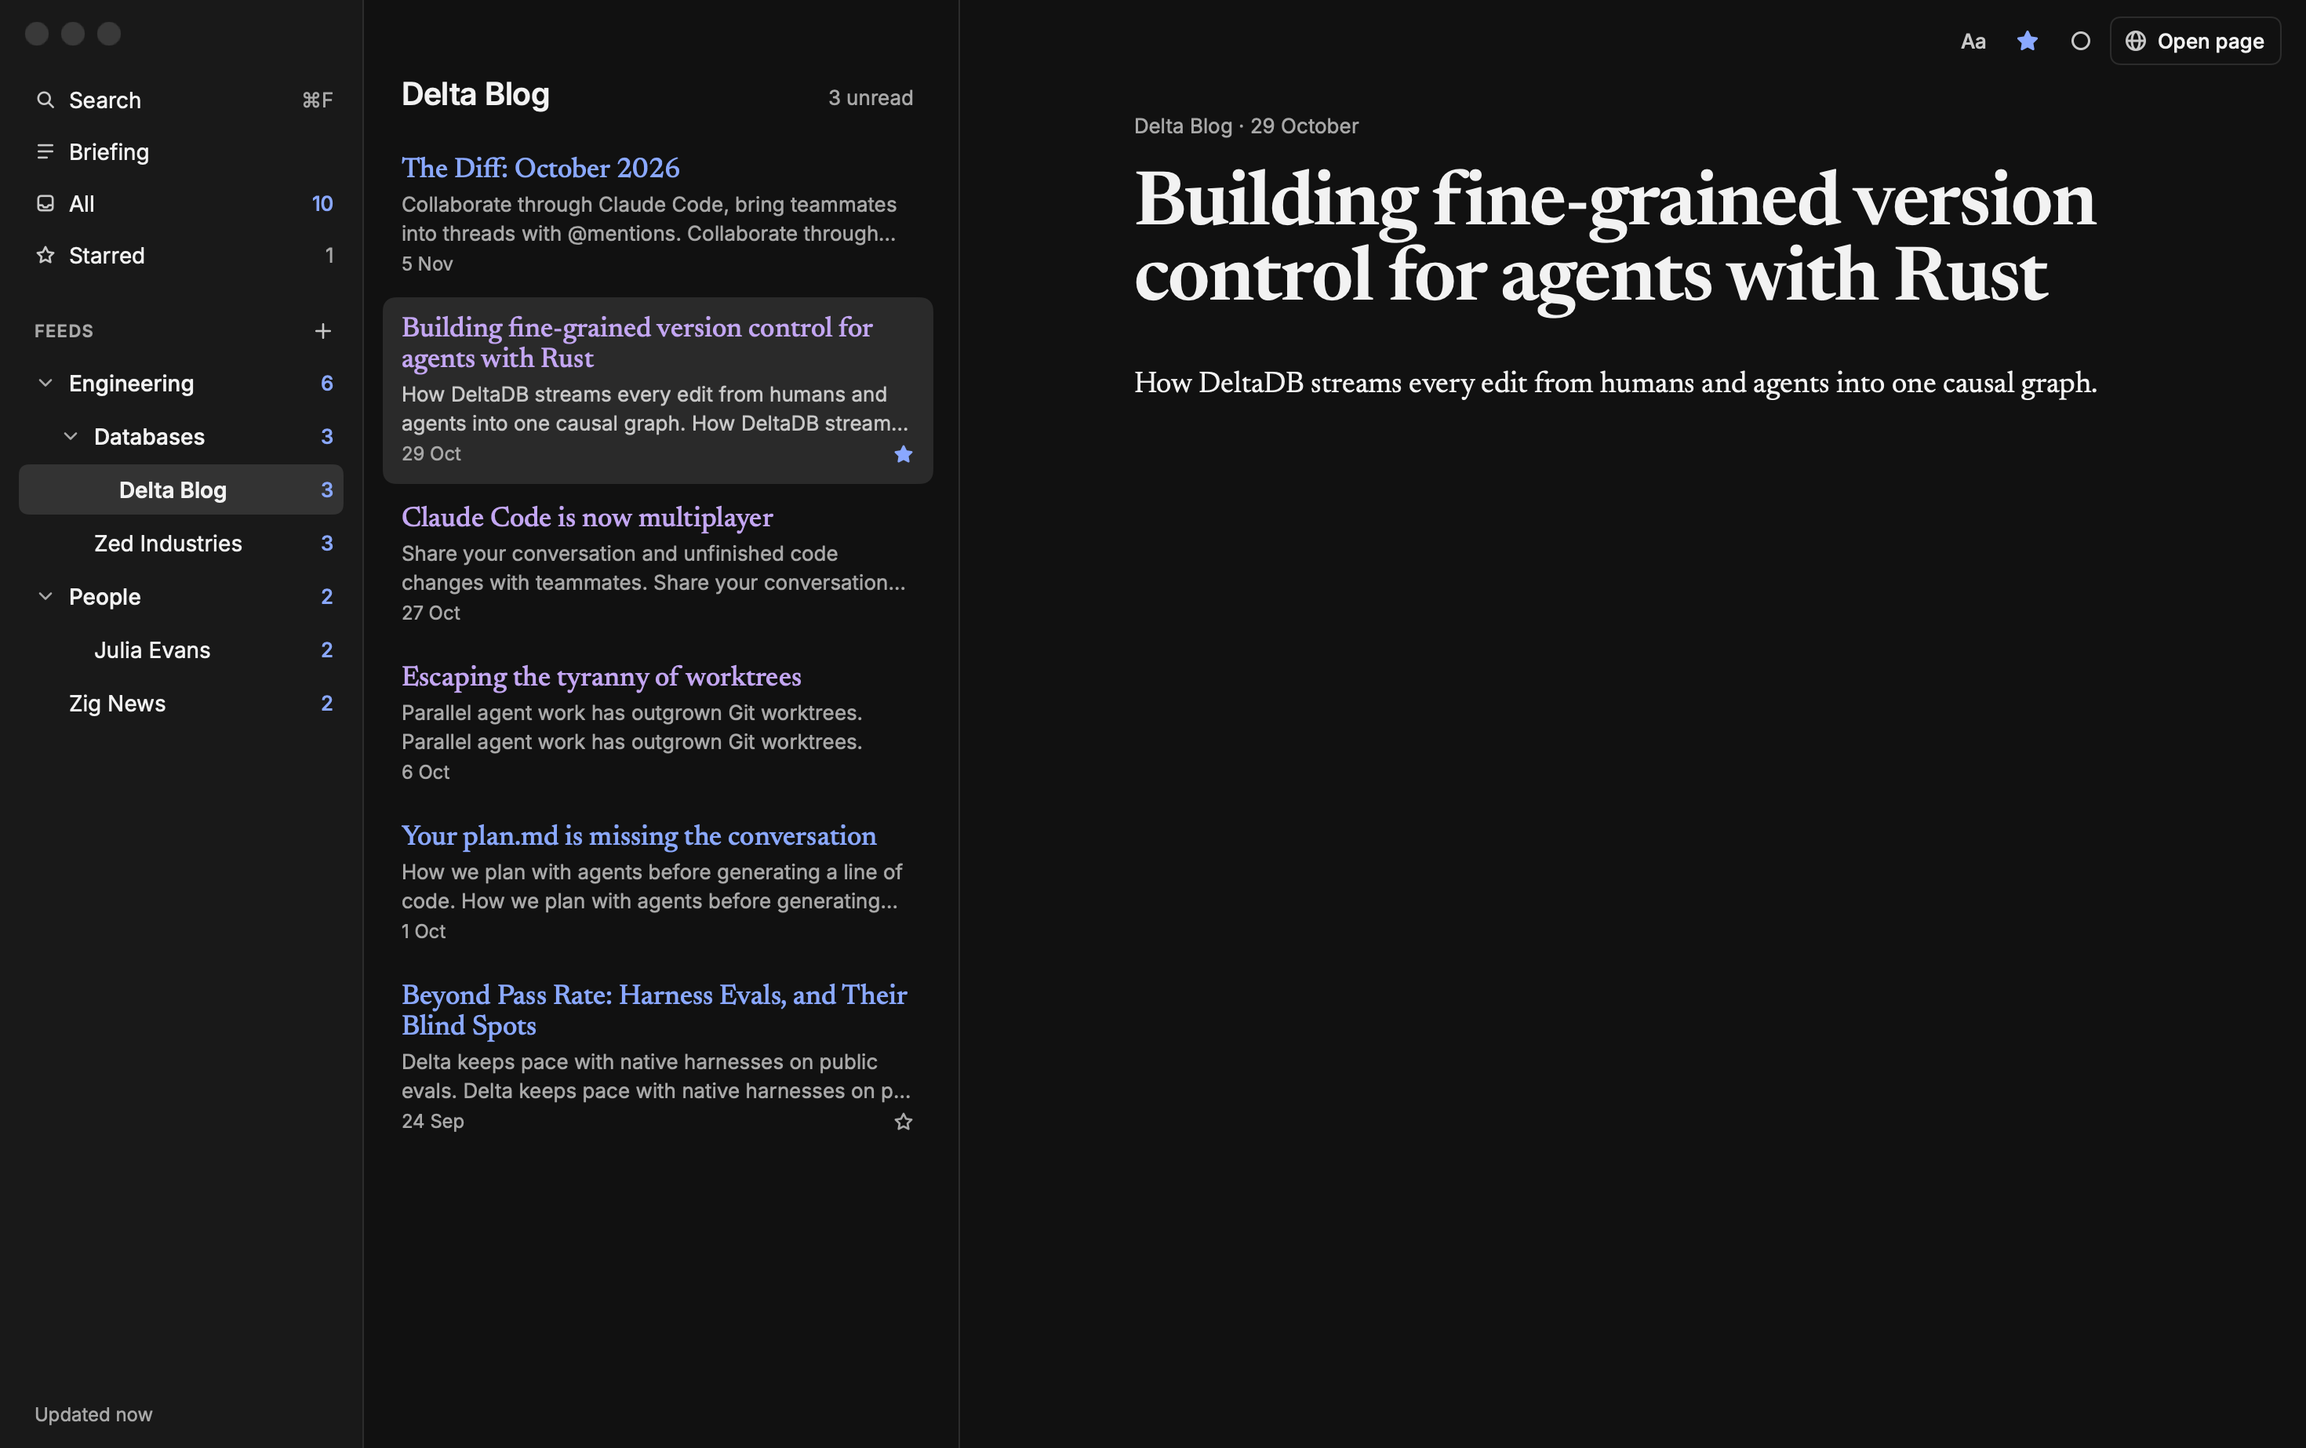
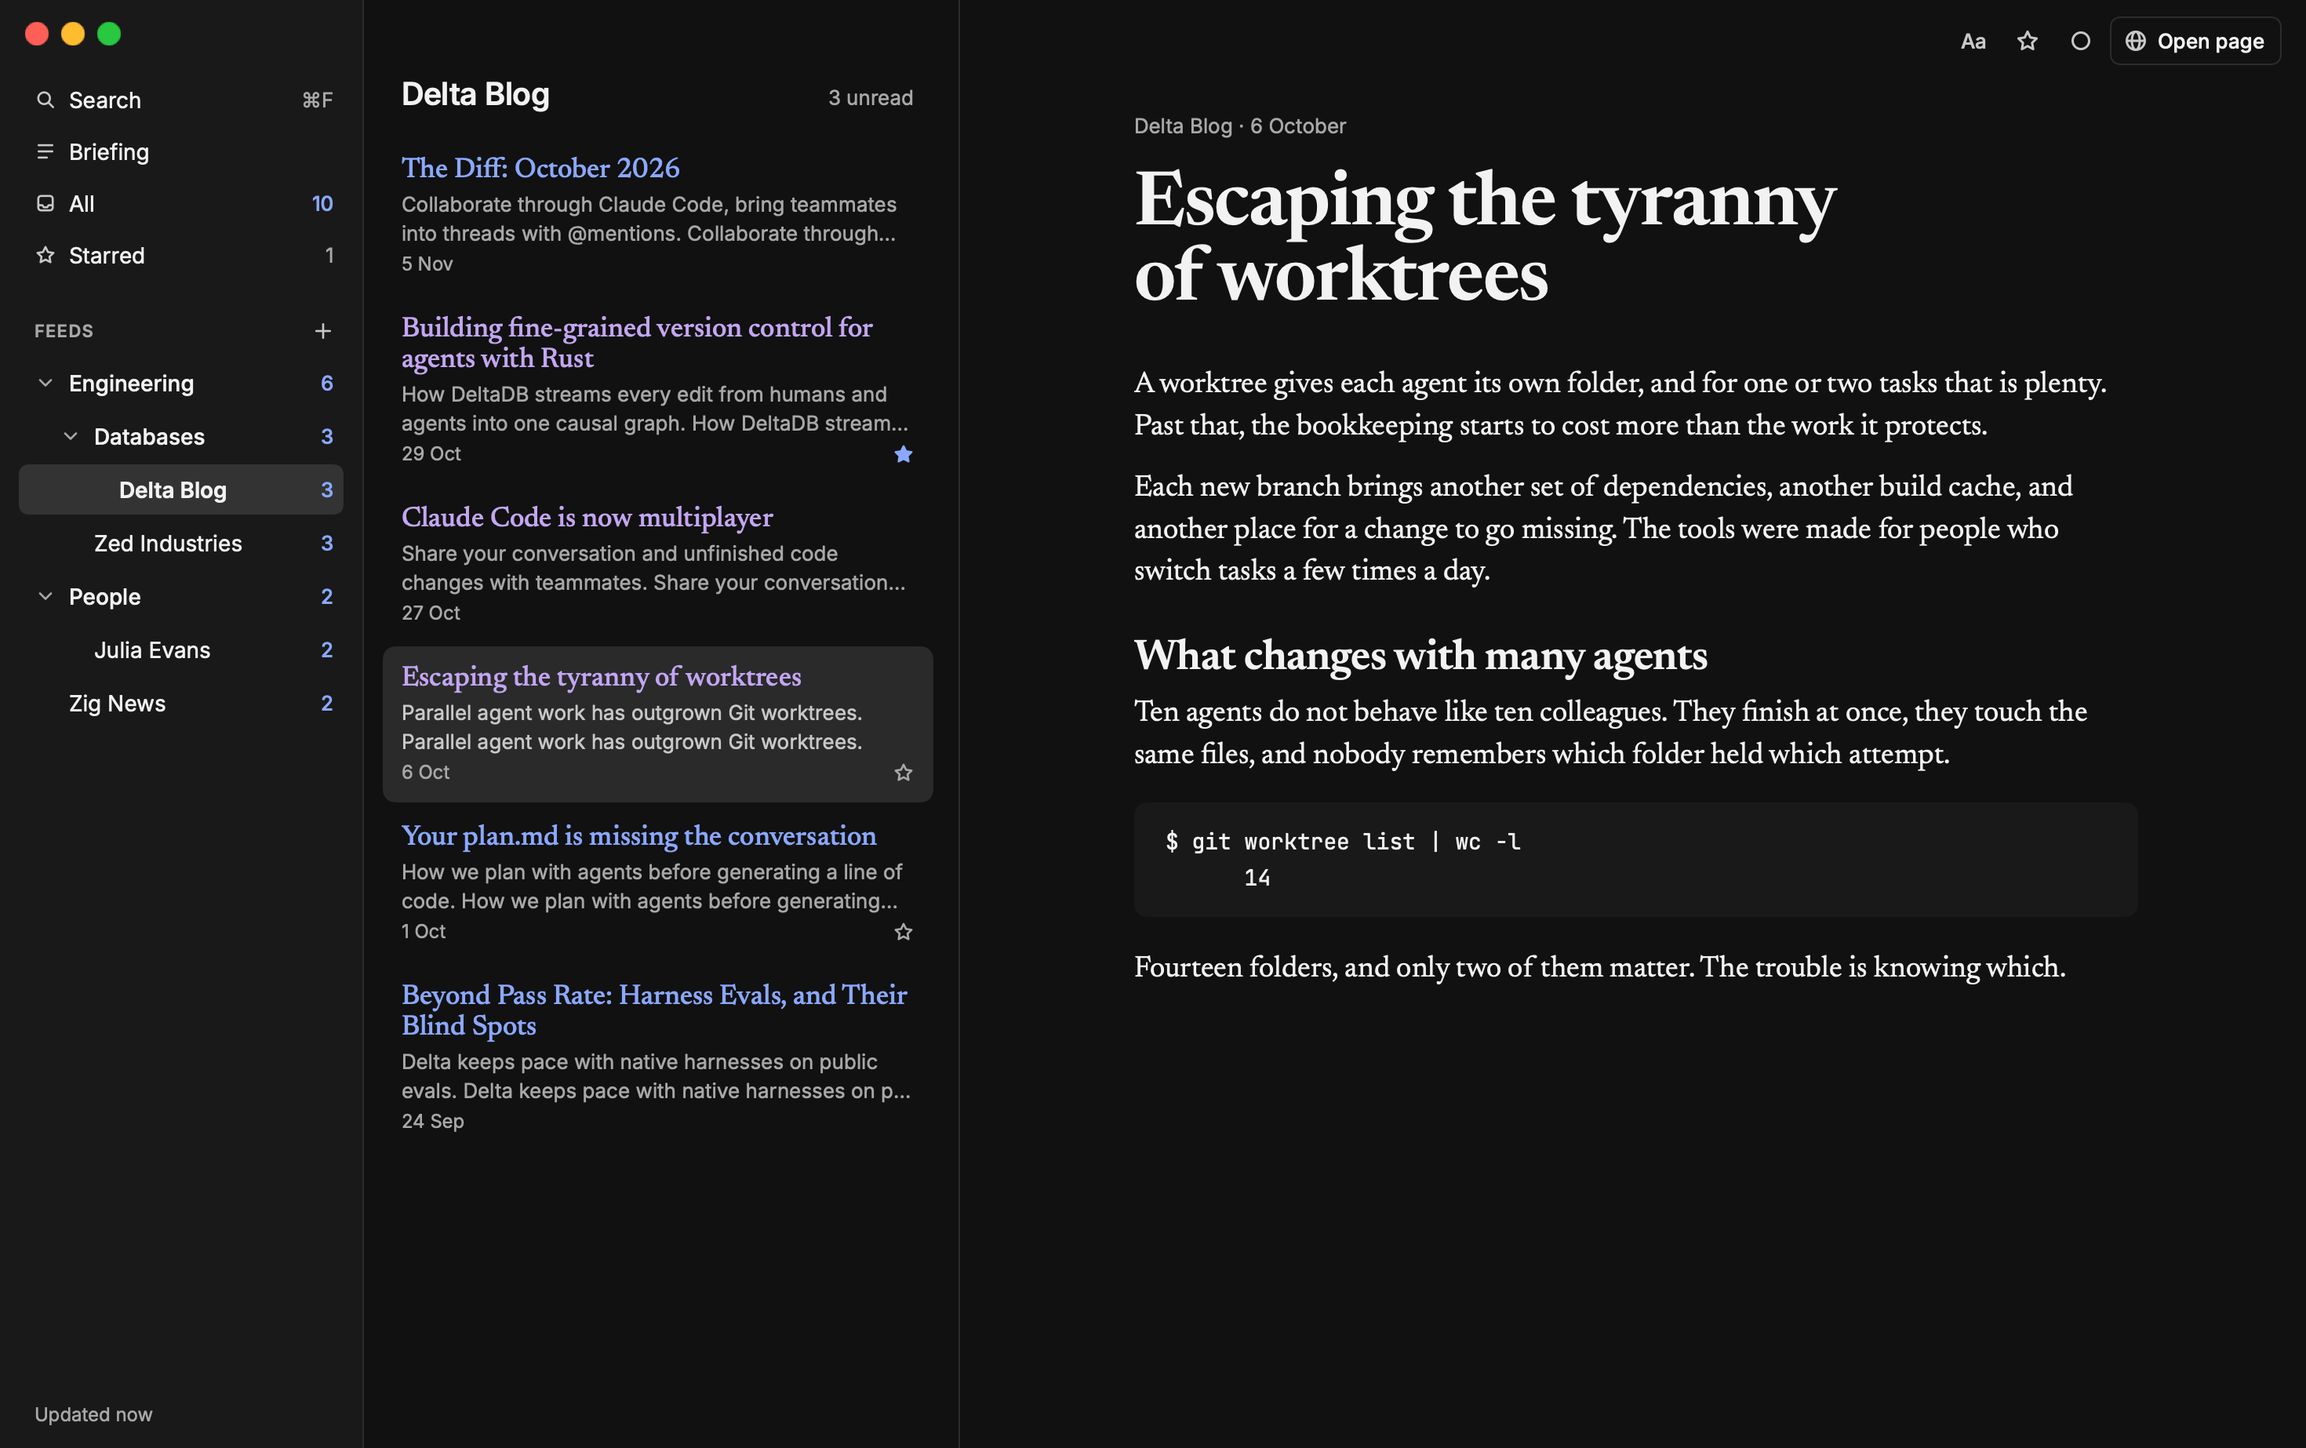
fix(site): match the design more closely
The feed badge is redrawn so the arcs centre on the stone. The ribbon's
Load images switch now reveals a bundled picture that develops in. The
day and night control is a radio group, the masthead line names the
edition, the screenshots cross-fade and show a real article, the install
sheet slides in once, and j and k reach the columns, ads and the Coming
strip. Night colors follow the design.

diff --git a/site/src/styles/global.css b/site/src/styles/global.css
@@ -21,11 +21,11 @@
 }
 
 :root[data-theme="night"] {
-  --linen: #1a1815;
-  --paper: #24211d;
-  --ink: #f0eadc;
+  --linen: #1c1915;
+  --paper: #25221d;
+  --ink: #f3ede0;
   --ink-soft: #cfc7b6;
-  --rule: #5d5548;
+  --rule: #6a6152;
   --orange-text: #ff8f4d;
   --code-bg: #12100e;
   --code-ink: #f3ead8;
@@ -105,12 +105,14 @@ a:focus-visible, button:focus-visible, [tabindex]:focus-visible {
 .badge svg { width: 62%; height: 62%; }
 :root[data-theme="night"] .badge { box-shadow: inset 0 1px 0 rgb(255 255 255 / 0.4), 0 0 18px rgb(238 110 31 / 0.55), 0 2px 4px var(--shadow); }
 
-.edition-toggle {
-  display: inline-flex; border: 1px solid var(--ink); border-radius: 999px; padding: 2px;
-  background: var(--paper); font: 700 10px/1 var(--sans); letter-spacing: 0.14em; cursor: pointer;
-}
-.edition-toggle span { padding: 5px 9px; border-radius: 999px; color: var(--ink-soft); transition: background 0.2s, color 0.2s; }
-:root:not([data-theme="night"]) .edition-toggle .d, :root[data-theme="night"] .edition-toggle .n { background: var(--ink); color: var(--paper); }
+.edition-toggle { display: inline-flex; border: 1px solid var(--ink); border-radius: 999px; padding: 2px; background: var(--paper); margin: 0; min-width: 0; }
+.edition-toggle legend { position: absolute; width: 1px; height: 1px; overflow: hidden; clip: rect(0 0 0 0); }
+.edition-toggle label { position: relative; cursor: pointer; }
+.edition-toggle input { position: absolute; inset: 0; opacity: 0; margin: 0; cursor: pointer; }
+.edition-toggle span { display: block; padding: 5px 9px; border-radius: 999px; color: var(--ink-soft); font: 700 10px/1 var(--sans); letter-spacing: 0.14em; transition: background 0.2s, color 0.2s; }
+.edition-toggle input:checked + span { background: var(--ink); color: var(--paper); }
+.edition-toggle input:focus-visible + span { outline: 2px solid var(--orange); outline-offset: 2px; }
+.nojs .edition-toggle { display: none; }
 
 /* sticky slim masthead */
 .slim {
@@ -162,10 +164,9 @@ a:focus-visible, button:focus-visible, [tabindex]:focus-visible {
 .shot { position: relative; }
 .shot figure { margin: 0; }
 .shot img { display: block; width: 100%; height: auto; }
-.shot .img-night { display: none; }
-:root[data-theme="night"] .shot .img-day { display: none; }
-:root[data-theme="night"] .shot .img-night { display: block; }
-.shot .frame { border-radius: 10px; overflow: hidden; border: 1px solid var(--rule); box-shadow: 0 18px 40px var(--shadow); }
+.shot .frame { position: relative; border-radius: 10px; overflow: hidden; border: 1px solid var(--rule); box-shadow: 0 18px 40px var(--shadow); }
+.shot .img-night { position: absolute; inset: 0; opacity: 0; transition: opacity 0.3s; }
+:root[data-theme="night"] .shot .img-night { opacity: 1; }
 .shot figcaption { font: italic 13px/1.4 var(--serif); color: var(--ink-soft); margin-top: 10px; }
 
 .ribbon-wrap { position: absolute; left: -18px; bottom: 54px; z-index: 5; }
@@ -178,6 +179,7 @@ a:focus-visible, button:focus-visible, [tabindex]:focus-visible {
 .ribbon::after { content: ""; position: absolute; left: 0; bottom: -9px; border: 9px solid transparent; border-top-color: #a8420f; border-left-color: #a8420f; border-bottom: 0; border-right: 0; }
 .ribbon .chev { transition: transform 0.32s cubic-bezier(0.2, 0.8, 0.2, 1); }
 .ribbon[aria-expanded="true"] .chev { transform: rotate(180deg); }
+:root[data-theme="night"] .btn:not(.alt) { box-shadow: inset 0 1px 0 rgb(255 255 255 / 0.5), 0 0 22px rgb(238 110 31 / 0.5), 0 3px 6px var(--shadow); }
 :root[data-theme="night"] .ribbon { box-shadow: 0 0 18px rgb(238 110 31 / 0.5), 0 3px 6px var(--shadow); }
 .inset {
   position: absolute; left: 0; bottom: 100%; width: min(440px, 80vw);
@@ -187,11 +189,15 @@ a:focus-visible, button:focus-visible, [tabindex]:focus-visible {
 }
 .inset.open { display: block; clip-path: inset(0); }
 .inset .ph {
-  position: relative; height: 140px; border: 1px dashed var(--rule); display: grid; place-items: center; text-align: center;
+  position: relative; height: 140px; border: 1px dashed var(--rule); overflow: hidden;
   background: repeating-linear-gradient(135deg, transparent 0 8px, rgb(128 112 80 / 0.12) 8px 10px);
-  font-size: 14px; padding: 12px; transition: background 0.5s, color 0.5s;
+  transition: background 0.5s, border-color 0.5s;
 }
-.inset .ph.loaded { background: linear-gradient(#f6c08a, #e98a45 55%, #7a4a2c 55%); color: transparent; border-style: solid; }
+.inset .ph .blocked { position: absolute; inset: 0; display: grid; place-items: center; text-align: center; font-size: 14px; padding: 12px; transition: opacity 0.3s; }
+.inset .ph .photo { position: absolute; inset: 0; width: 100%; height: 100%; object-fit: cover; opacity: 0; filter: sepia(1) blur(6px); transition: opacity 0.5s ease-out, filter 0.5s ease-out; }
+.inset .ph.loaded { border-style: solid; }
+.inset .ph.loaded .blocked { opacity: 0; }
+.inset .ph.loaded .photo { opacity: 1; filter: none; }
 .switch-row { display: flex; justify-content: space-between; align-items: center; gap: 14px; padding: 14px 0 10px; border-bottom: 1px solid var(--rule); }
 .switch-row b { display: block; font-size: 15px; }
 .switch-row span.s { font-size: 13px; color: var(--ink-soft); }
@@ -200,7 +206,11 @@ a:focus-visible, button:focus-visible, [tabindex]:focus-visible {
 .switch:checked { background: var(--orange); }
 .switch:checked::after { transform: translateX(20px); }
 .inset p.what { font: 16px/1.5 var(--serif); margin: 12px 0 0; }
-@media (prefers-reduced-motion: reduce) { .inset, .ribbon .chev, .switch::after { transition: none; } }
+@media (prefers-reduced-motion: reduce) {
+  .inset { clip-path: none; opacity: 0; transition: opacity 0.12s; }
+  .inset.open { opacity: 1; }
+  .ribbon .chev, .switch::after, .inset .ph .photo { transition: none; filter: none; }
+}
 
 /* ---------- edition strip ---------- */
 .strip { display: grid; grid-template-columns: 150px repeat(4, 1fr); border-top: 3px double var(--ink); border-bottom: 1px solid var(--ink); padding: 22px 0; }
@@ -211,7 +221,9 @@ a:focus-visible, button:focus-visible, [tabindex]:focus-visible {
 .strip h3 { font: 700 22px/1.2 var(--serif); margin: 0 0 6px; position: relative; display: inline-block; }
 .strip p { margin: 0 0 8px; font-size: 15px; color: var(--ink-soft); }
 .strip .cont { font: italic 14px/1 var(--serif); color: var(--orange-text); }
-.story-focus { outline: 2px solid var(--orange); outline-offset: 6px; border-radius: 3px; background: rgb(238 110 31 / 0.08); }
+.story-focus { outline: none; box-shadow: 0 0 0 2px var(--paper), 0 0 0 4px var(--orange); border-radius: 3px; background: rgb(238 110 31 / 0.08); animation: ringin 0.14s ease-out; }
+@keyframes ringin { from { box-shadow: 0 0 0 2px var(--paper), 0 0 0 4px transparent; } }
+@media (prefers-reduced-motion: reduce) { .story-focus { animation: none; } }
 .scribble { position: absolute; left: 0; right: 0; bottom: -7px; height: 8px; width: 100%; overflow: visible; pointer-events: none; }
 .scribble path { stroke: var(--orange); stroke-width: 2.4; fill: none; stroke-linecap: round; stroke-dasharray: 1; stroke-dashoffset: 1; transition: stroke-dashoffset 0.2s ease-in; }
 .story:hover .scribble path, .story.story-focus .scribble path, .story:focus-visible .scribble path { stroke-dashoffset: 0; transition: stroke-dashoffset 0.36s ease-out; }
@@ -225,6 +237,7 @@ section.block { padding: 72px 0 8px; scroll-margin-top: 64px; }
 .head p.aside { font: italic 17px/1.4 var(--serif); color: var(--ink-soft); max-width: 22em; text-align: right; margin: 0; }
 .cols { display: grid; grid-template-columns: repeat(3, 1fr); border-top: 1px solid var(--ink); }
 .col { padding: 26px 28px 26px 0; }
+.col:focus-visible, .classifieds > div:focus-visible, .coming:focus-visible { outline: none; }
 .col + .col { padding-left: 28px; border-left: 1px solid var(--rule); }
 .col h3 { font: 700 30px/1.15 var(--serif); margin: 8px 0 14px; }
 .col p { margin: 0 0 14px; font-size: 16.5px; }

diff --git a/site/src/scripts/site.ts b/site/src/scripts/site.ts
@@ -12,9 +12,13 @@ const today = `${parts.weekday}, ${parts.day} ${parts.month} ${parts.year}`;
 document.querySelectorAll("[data-date]").forEach((el) => (el.textContent = today));
 
 // ----- day and night edition
-const toggle = document.getElementById("edition");
+const radios = Array.from(document.querySelectorAll<HTMLInputElement>('#edition input[name="edition"]'));
+const edName = document.getElementById("edition-name");
 const night = () => root.dataset.theme === "night";
-const syncToggle = () => toggle?.setAttribute("aria-pressed", String(night()));
+const syncToggle = () => {
+  radios.forEach((r) => (r.checked = r.value === (night() ? "night" : "day")));
+  if (edName) edName.textContent = night() ? "Night" : "Local";
+};
 function setEdition(next: "day" | "night") {
   if (next === "night") root.dataset.theme = "night"; else delete root.dataset.theme;
   try { localStorage.setItem("weir-edition", next); } catch { /* private mode */ }
@@ -22,7 +26,7 @@ function setEdition(next: "day" | "night") {
   say(next === "night" ? "Night edition" : "Day edition");
 }
 syncToggle();
-toggle?.addEventListener("click", () => setEdition(night() ? "day" : "night"));
+radios.forEach((r) => r.addEventListener("change", () => r.checked && setEdition(r.value as "day" | "night")));
 matchMedia("(prefers-color-scheme: dark)").addEventListener("change", (e) => {
   let saved: string | null = null;
   try { saved = localStorage.getItem("weir-edition"); } catch { /* ignore */ }
@@ -47,13 +51,14 @@ const inset = document.getElementById("inset");
 const imgSwitch = document.getElementById("img-switch") as HTMLInputElement | null;
 const ph = document.getElementById("ph");
 const what = document.getElementById("what");
-function setRibbon(open: boolean) {
+function setRibbon(open: boolean, focus = false) {
   if (!ribbon || !inset) return;
   ribbon.setAttribute("aria-expanded", String(open));
   inset.classList.toggle("open", open);
-  if (open) inset.removeAttribute("hidden");
+  if (open) { inset.removeAttribute("hidden"); if (focus) imgSwitch?.focus(); }
+  else if (focus) ribbon.focus();
 }
-ribbon?.addEventListener("click", () => setRibbon(ribbon.getAttribute("aria-expanded") !== "true"));
+ribbon?.addEventListener("click", () => setRibbon(ribbon.getAttribute("aria-expanded") !== "true", true));
 imgSwitch?.addEventListener("change", () => {
   const on = imgSwitch.checked;
   ph?.classList.toggle("loaded", on);
@@ -78,24 +83,33 @@ async function copyCommands() {
     const range = document.createRange();
     range.selectNodeContents(commands);
     const sel = getSelection(); sel?.removeAllRanges(); sel?.addRange(range);
+    if (btn) { btn.textContent = "Press ⌘C"; setTimeout(() => (btn.textContent = "Copy"), 2500); }
     say("Select and copy the commands");
   }
 }
 document.querySelectorAll("[data-copy]").forEach((b) => b.addEventListener("click", copyCommands));
 
-// ----- get started slides the install section into view
+// ----- the install sheet slides in once, when it arrives or is scrolled to
+const installSection = document.getElementById("install");
+const reduce = matchMedia("(prefers-reduced-motion: reduce)").matches;
+let slid = false;
+function slideInstall() {
+  const sheet = installSection?.querySelector<HTMLElement>(".classifieds");
+  if (slid || !sheet || reduce) return;
+  slid = true;
+  sheet.animate?.(
+    [{ transform: "translateX(40px) rotate(-2.5deg)", opacity: 0.4 }, { transform: "none", opacity: 1 }],
+    { duration: 420, easing: "cubic-bezier(.2,.8,.2,1)" },
+  );
+}
+if (installSection && "IntersectionObserver" in window) {
+  new IntersectionObserver((entries) => entries.forEach((e) => e.isIntersecting && (slideInstall(), true)), { threshold: 0.25 }).observe(installSection);
+}
 document.querySelectorAll<HTMLAnchorElement>("a[data-get-started]").forEach((a) =>
   a.addEventListener("click", () => {
-    const target = document.getElementById("install");
-    if (!target) return;
-    target.animate?.(
-      matchMedia("(prefers-reduced-motion: reduce)").matches
-        ? []
-        : [{ transform: "translateX(40px) rotate(-1deg)", opacity: 0.4 }, { transform: "none", opacity: 1 }],
-      { duration: 420, easing: "cubic-bezier(.2,.8,.2,1)" },
-    );
-    target.setAttribute("tabindex", "-1");
-    setTimeout(() => target.focus({ preventScroll: true }), 450);
+    if (!installSection) return;
+    installSection.setAttribute("tabindex", "-1");
+    setTimeout(() => installSection.focus({ preventScroll: true }), 450);
   }),
 );
 
@@ -110,6 +124,7 @@ keys?.addEventListener("click", (e) => { if (e.target === keys) closeKeys(); });
 
 // ----- keyboard: the same keys as the app
 const stories = () => Array.from(document.querySelectorAll<HTMLElement>("[data-story]"));
+stories().forEach((s) => { if (!s.hasAttribute("href")) s.tabIndex = -1; });
 let at = -1;
 function focusStory(i: number) {
   const list = stories();
@@ -138,15 +153,15 @@ addEventListener("keydown", (e) => {
       break;
     }
     case "t": setEdition(night() ? "day" : "night"); break;
-    case "i": if (ribbon) { setRibbon(ribbon.getAttribute("aria-expanded") !== "true"); ribbon.scrollIntoView({ block: "center" }); } break;
+    case "i": if (ribbon) { ribbon.scrollIntoView({ block: "center" }); setRibbon(ribbon.getAttribute("aria-expanded") !== "true", true); } break;
     case "c": if (commands) copyCommands(); break;
     case "?": e.preventDefault(); openKeys(); break;
     case "Escape":
-      if (ribbon?.getAttribute("aria-expanded") === "true") setRibbon(false);
+      if (ribbon?.getAttribute("aria-expanded") === "true") setRibbon(false, true);
       else { stories().forEach((s) => s.classList.remove("story-focus")); at = -1; }
       break;
     case "g":
-      if (Date.now() - lastG < 600) { scrollTo({ top: 0 }); lastG = 0; } else lastG = Date.now();
+      if (Date.now() - lastG < 800) { scrollTo({ top: 0 }); lastG = 0; } else lastG = Date.now();
       break;
   }
 });
